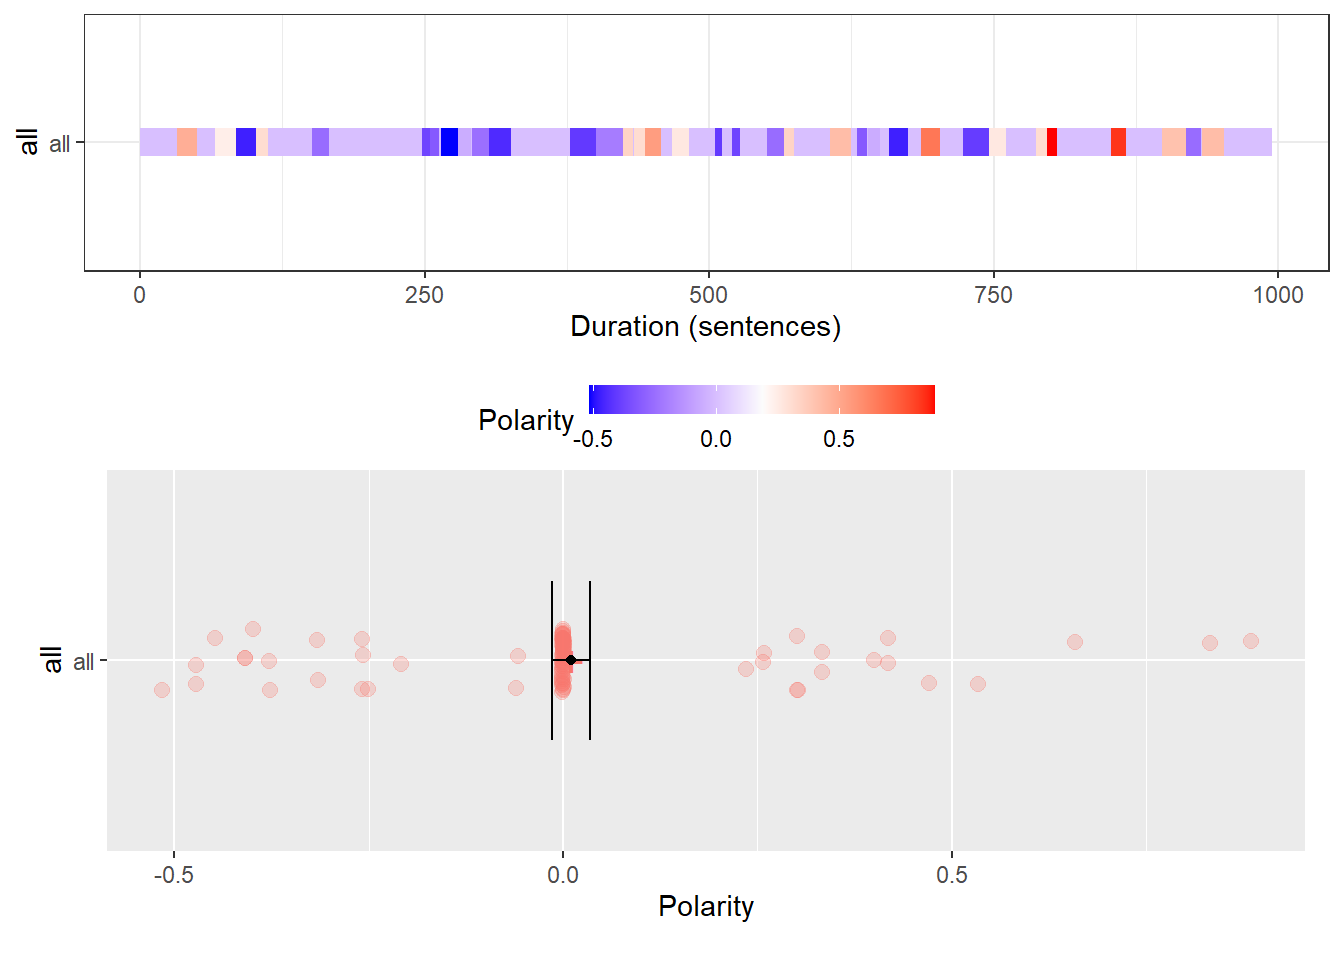
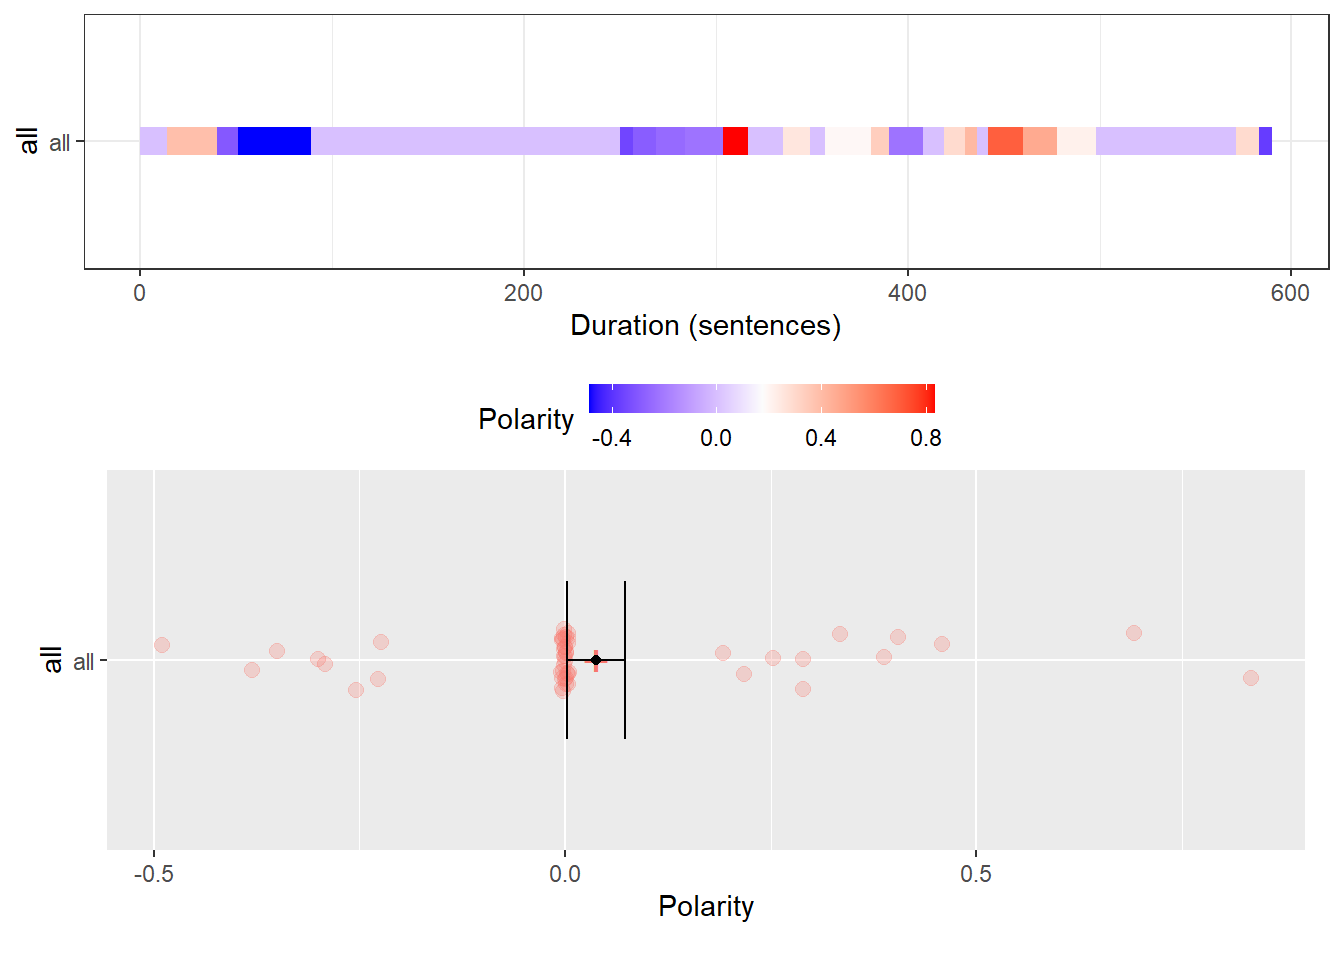
Add files via upload

diff --git a/discourse.html b/discourse.html
@@ -10,10 +10,10 @@
 
 
 
-<meta name="date" content="2021-09-02" />
 
 <title>Quantitative Discourse Analysis</title>
 
+<script src="site_libs/header-attrs-2.6/header-attrs.js"></script>
 <script src="site_libs/jquery-1.11.3/jquery.min.js"></script>
 <meta name="viewport" content="width=device-width, initial-scale=1" />
 <link href="site_libs/bootstrap-3.3.5/css/cosmo.min.css" rel="stylesheet" />
@@ -326,7 +326,7 @@ $(document).ready(function () {
 
 
 <h1 class="title toc-ignore">Quantitative Discourse Analysis</h1>
-<h4 class="date">09/02/2021</h4>
+<h4 class="date">17/03/2021</h4>
 
 </div>
 
@@ -334,13 +334,13 @@ $(document).ready(function () {
 <p>Recommended R packages:</p>
 <p><a href="https://cran.r-project.org/web/packages/qdap/index.html">+ qdap</a></p>
 <p><a href="https://cran.r-project.org/web/packages/pdftools/index.html">+ pdftools</a></p>
-<div id="word-frequency-analysis-of-copom-236th-meeting---january-19-20-2021" class="section level3">
-<h3>Word frequency analysis of <a href="https://www.bcb.gov.br/en/publications/copomminutes">Copom 236th Meeting - January 19-20, 2021</a></h3>
+<div id="word-frequency-analysis-of-copom-237th-meeting---march-16-17-2021" class="section level3">
+<h3>Word frequency analysis of <a href="https://www.bcb.gov.br/en/pressdetail/2381/nota">Copom 237th Meeting - March 16-17, 2021</a></h3>
 <p><img src="discourse_files/figure-html/unnamed-chunk-2-1.png" width="672" /></p>
 </div>
 <div id="polarity-scores" class="section level3">
 <h3>Polarity scores</h3>
-<p>Polarity measures sentence sentiment. On average, what we see is neutrality.</p>
+<p><strong>The polarity scores measure sentence sentiment. On average, we see a positive polarity score, that is, more positive words than negative words. The Committee considered appropriate an adjustment of 0.75 p.p. in the Selic rate. In the previous meeting, we saw neutrality.</strong></p>
 <p><img src="discourse_files/figure-html/unnamed-chunk-3-1.png" width="672" /></p>
 <p><a href="https://www.stlouisfed.org/education/teaching-new-tools-of-monetary-policy">+ Teaching the New Tools of Monetary Policy</a></p>
 </div>
